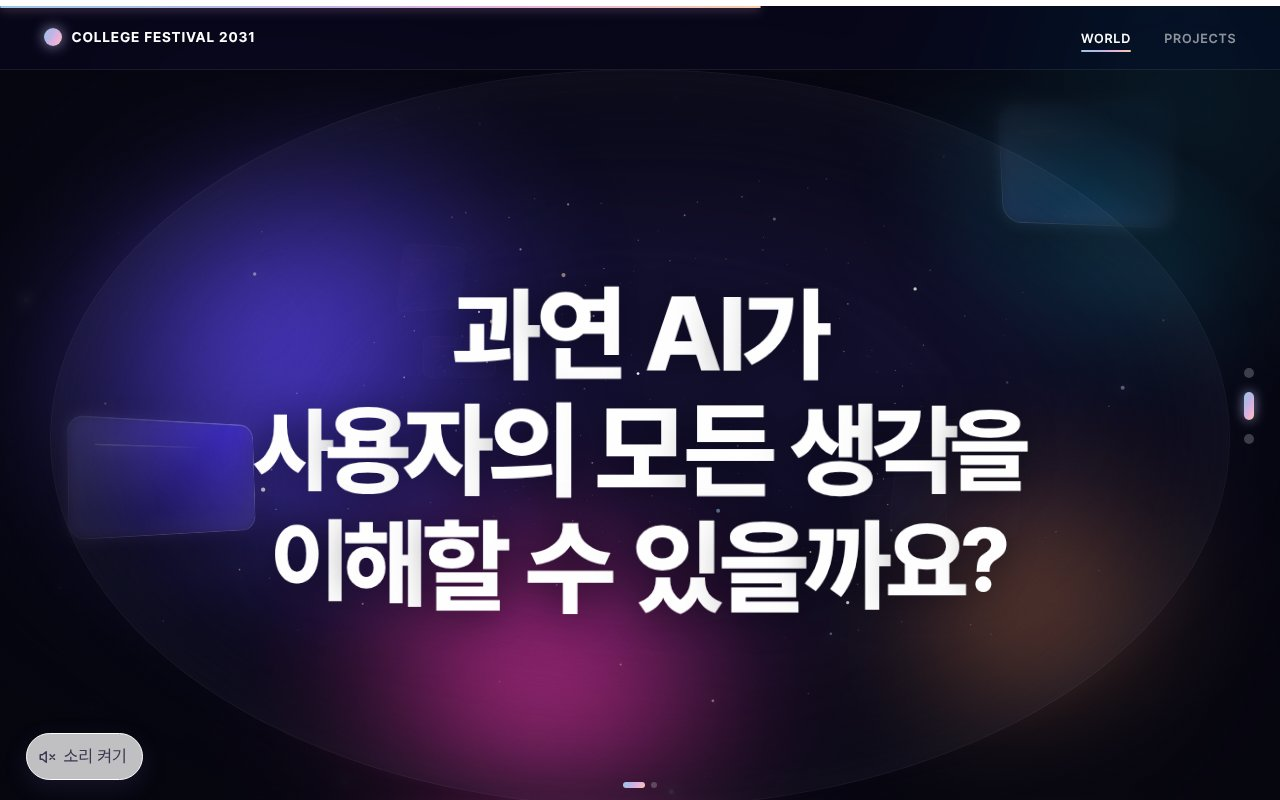
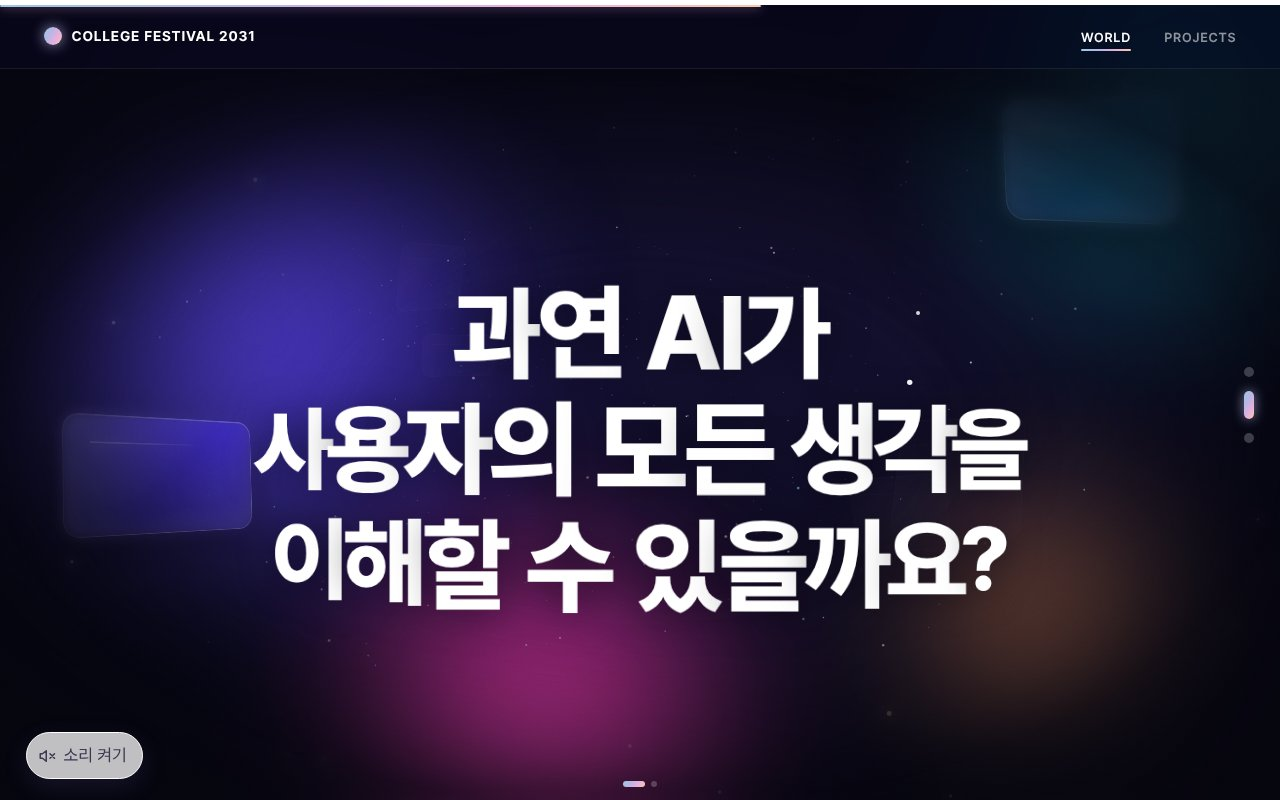
'과연' 장면의 반투명 타원 경계선 제거 (비네트·가장자리 흐림은 유지)
Claude-Session: https://claude.ai/code/session_01MVD1fmE3ZHHAawXfDg3rwx

diff --git a/assets/css/style.css b/assets/css/style.css
@@ -1021,8 +1021,6 @@ body:has(#detail.open) .snd-btn{opacity:0;pointer-events:none}
   background:radial-gradient(ellipse 58% 52% at 50% 54%,rgba(5,5,14,0) 0%,rgba(5,5,14,0) 42%,rgba(5,5,14,.55) 78%,rgba(5,5,14,.9) 100%);
   -webkit-backdrop-filter:blur(7px) saturate(.8);backdrop-filter:blur(7px) saturate(.8);
   -webkit-mask:radial-gradient(ellipse 60% 55% at 50% 54%,transparent 38%,#000 85%);mask:radial-gradient(ellipse 60% 55% at 50% 54%,transparent 38%,#000 85%)}
-.t-vig::after{content:"";position:absolute;left:50%;top:54%;width:min(1180px,96vw);aspect-ratio:1.6;transform:translate(-50%,-50%);border-radius:50%;
-  box-shadow:inset 0 0 0 1px rgba(255,255,255,.045),inset 0 0 140px rgba(201,198,255,.09)}
 @media (max-width:700px){#tQ .t-h{font-size:11.4vw}}
 
 /* ---- key line: soft gradient ripples spread across the screen from the bubble ---- */
